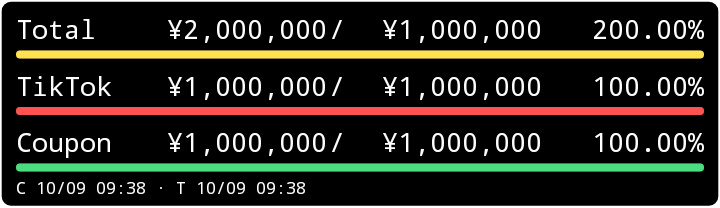
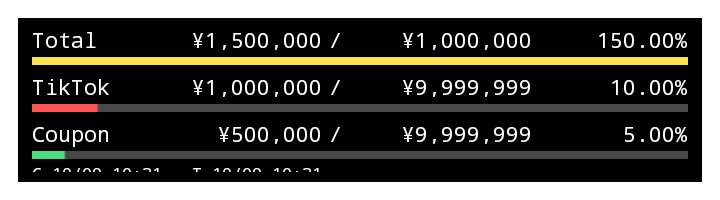
Publish verified v0.1.2 APK and high-density native widget screenshots

diff --git a/widget-download.html b/widget-download.html
@@ -3,10 +3,10 @@
 <style>
 :root{color-scheme:dark;--bg:#11120f;--text:#f6f5ee;--muted:#a8ab9c;--line:#424538;--yellow:#ffe24d}*{box-sizing:border-box}body{margin:0;background:var(--bg);color:var(--text);font:16px/1.65 system-ui,-apple-system,sans-serif}main{max-width:760px;margin:auto;padding:44px 24px 60px}.brand{font-size:12px;letter-spacing:.18em;color:var(--yellow)}h1{font-size:clamp(30px,6vw,48px);line-height:1.25;font-weight:600;margin:24px 0 14px}p{margin:14px 0}.lead{color:#c6c9bb;max-width:560px}.badges{display:flex;gap:10px;flex-wrap:wrap;margin:24px 0}.badges span{border:1px solid var(--line);padding:4px 10px;font-size:12px;border-radius:4px}.download{display:inline-block;text-decoration:none;color:#11120f;background:var(--yellow);padding:15px 24px;border-radius:7px;font-weight:700;margin-top:4px}.meta{font-size:12px;color:var(--muted)}.sample{margin:32px 0 8px;padding:13px 12px;background:#000;border:.8px solid white;border-radius:5px;font-family:ui-monospace,SFMono-Regular,monospace;max-width:620px}.row{margin:0 0 13px}.row:last-child{margin:0}.numbers{display:grid;grid-template-columns:16% 61% 23%;align-items:center;white-space:nowrap;font-size:clamp(9px,2.5vw,17px);font-variant-numeric:tabular-nums}.amount,.percent{text-align:right}.amount{padding-right:6px}.gauge{height:4px;margin-top:7px;background:#333;border-radius:3px}.gauge b{display:block;height:100%;border-radius:3px}.demo{font-size:11px;color:var(--muted);margin-top:7px}section{border-top:1px solid var(--line);padding-top:24px;margin-top:32px}h2{font-size:19px;line-height:1.4;font-weight:600}ol{padding-left:22px}li{margin:12px 0}.note{padding:18px 20px;background:#202217;border-left:3px solid var(--yellow);margin:26px 0}a{color:var(--yellow)}.hash{word-break:break-all;font:11px/1.6 ui-monospace,monospace;color:var(--muted)}table{width:100%;border-collapse:collapse;font-size:13px}td{border-bottom:1px solid var(--line);padding:10px 0}td:first-child{width:34%;color:var(--muted)}footer{font-size:12px;color:var(--muted);margin-top:38px}button{cursor:pointer}details{margin-top:20px;color:var(--muted);font-size:13px}
 </style></head><body><main>
-<div class="brand">THE FOOL QUEST / ANDROID</div><h1>収益を、<br>ホーム画面に。</h1><p class="lead">Total・TikTok・Couponを縦3行で表示。現在額・「／」・目標額を独立した固定幅で表示。足りない桁は空白の幅を保ち、ゲージを文字のすぐ下に置きます。</p>
-<div class="badges"><span>Android 8.0以上</span><span>初期サイズ 5 × 2</span><span>v0.1.1 / code 2</span><span>約34 KB</span></div>
-<a class="download" href="./android-widget/releases/fool-quest-widget-0.1.1.apk" download="fool-quest-widget-0.1.1.apk">APKをダウンロード</a><p class="meta">v0.1.0をインストール済みの場合は、アンインストールせずに上書き更新してください。保存済みの設定と収益表示データを保持します。</p>
-<img src="./widget-preview.png" alt="Android上の3行表示テスト。Total 2,000,000円、TikTokとCoupon各1,000,000円。" style="display:block;width:100%;height:auto;margin:32px 0 8px;max-width:620px"><p class="demo">Android 35で描画したテスト画像です。数値は表示検証用で、実収益ではありません。</p>
+<div class="brand">THE FOOL QUEST / ANDROID</div><h1>収益を、<br>ホーム画面に。</h1><p class="lead">Total・TikTok・Couponを縦3行で表示。標準テキスト部品で、現在額・「／」・目標額を独立した固定幅に表示。画像縮小による文字の縮みを防ぎ、足りない桁は空白の幅を保ちます。</p>
+<div class="badges"><span>Android 8.0以上</span><span>初期サイズ 5 × 2</span><span>v0.1.2 / code 3</span><span>約46 KB</span></div>
+<a class="download" href="./android-widget/releases/fool-quest-widget-0.1.2.apk" download="fool-quest-widget-0.1.2.apk">APKをダウンロード</a><p class="meta">旧版をインストール済みの場合は、アンインストールせずに上書き更新してください。保存済みの設定と収益表示データを保持します。</p>
+<img src="./widget-preview.png" alt="Android上の3行表示テスト。Total 1,500,000円、TikTok 1,000,000円、Coupon 500,000円。" style="display:block;width:100%;height:auto;margin:32px 0 8px;max-width:620px"><p class="demo">Android 35で描画したテスト画像です。数値は表示検証用で、実収益ではありません。</p>
 <div class="note"><strong>今回の連携範囲</strong><p>Couponは既存の中央台帳から自動取得します。TikTokと目標は、THE FOOL QUESTから一度連携してください。サイトで値を変更したら再連携が必要です。</p><p class="meta">現行サイトにはTikTok・目標の取得APIがないため、この2項目の完全自動同期は今後の課題です。</p></div>
 <section><h2>インストールして配置</h2><ol>
 <li>AndroidでAPKをダウンロードして開きます。必要な場合は、そのブラウザの「不明なアプリのインストール」を許可します。</li>
@@ -14,7 +14,7 @@
 <li>アプリ側で値を確認して「受け取る」を押します。背景・文字などを調整し、「設定を保存」を押します。</li>
 <li>「ホーム画面に追加」を押します。対応していない場合は、ホーム画面を長押しして「ウィジェット」から選びます。</li>
 </ol><p>連携画面が開いたら、サイトのTikTok金額・目標との一致を確認してください。未連携の項目は「—」になります。</p></section>
-<section><h2>毎日の操作</h2><table><tr><td>タップ</td><td>Coupon更新。3項目の表示を再描画。</td></tr><tr><td>自動更新</td><td>30分間隔。省電力中は遅れる場合があります。</td></tr><tr><td>長押し</td><td>サイズ変更。設定メニューの有無はホームアプリによります。</td></tr><tr><td>表示設定</td><td>黒／白、色、透過率、文字サイズ、四方向余白、行間、ゲージ。</td></tr><tr><td>通信失敗</td><td>前回の正常取得値を保持。</td></tr></table></section>
-<section><h2>確認状況</h2><p id="verification">v0.1.1の署名APKビルド、179件の数学・配置検証、7件の読み取り連携テストに合格。Android 35で91件の表示・固定桁位置・実API・タップ・サイズ変更検証、通信断3件、再起動2件に合格しました。v0.1.0は実機の3項目表示を確認しています。v0.1.1の実機への上書き更新とランチャーでの表示は未確認です。</p><p><a href="https://github.com/45kikurage-rgb/the-fool-quest/tree/main/android-widget">GitHubソース・検証記録</a></p>
-<details><summary>APKの照合情報</summary><p class="hash">SHA-256<br>c96a631d33498e604d77a9e9f3784f1e2f0df4a3e6245e66d771e5bf7f755908</p><p class="hash">署名証明書 SHA-256<br>18946d320bb61c58aa627abbf2b53ea521b273b218eaec57f7fbc662f375bdb1</p></details></section>
+<section><h2>毎日の操作</h2><table><tr><td>タップ</td><td>Coupon更新。3項目の表示を再描画。</td></tr><tr><td>自動更新</td><td>30分間隔。省電力中は遅れる場合があります。</td></tr><tr><td>長押し</td><td>サイズ変更。配置枠の空白が大きいときは下端のハンドルを上へ動かして縮めます。設定メニューの有無はホームアプリによります。</td></tr><tr><td>表示設定</td><td>黒／白、色、透過率、文字サイズ、四方向余白、行間、ゲージ。</td></tr><tr><td>通信失敗</td><td>前回の正常取得値を保持。</td></tr></table></section>
+<section><h2>確認状況</h2><p id="verification">v0.1.2の署名APKビルド、179件の数学・配置、7件の読み取り連携テストに合格。Android 35の高密度画面・実ウィジェット枠で842件の表示・実際の文字描画・実API・タップ・サイズ変更、通信断5件、再起動2件に合格しました。Nova実機で更新後の表示は未確認です。</p><p><a href="https://github.com/45kikurage-rgb/the-fool-quest/tree/main/android-widget">GitHubソース・検証記録</a></p>
+<details><summary>APKの照合情報</summary><p class="hash">SHA-256<br>b1870190ef76900ccce87b227c8bc27031f4965497d7ab8a236af7a7295f2a90</p><p class="hash">署名証明書 SHA-256<br>18946d320bb61c58aa627abbf2b53ea521b273b218eaec57f7fbc662f375bdb1</p></details></section>
 <footer>独立アプリ / 既存データへの書き込みなし / 新しい収益DBなし</footer></main></body></html>

diff --git a/android-widget/VERIFICATION.md b/android-widget/VERIFICATION.md
@@ -1,3 +1,21 @@
+# v0.1.2 実ランチャー向け表示修正 — 2026-10-09 JST
+
+- 文字・金額・達成率を標準TextViewへ変更。画像全体を縮小する経路とサイズ候補マップを廃止。
+- 固定5欄（ラベル16%、現在額29%、スラッシュ3%、目標額29%、達成率23%）。各金額は7桁分を確保し、少額でも右寄せ、余り幅は空白のまま。
+- 設定プレビューもホームと同じRemoteViews。外周8dpでランチャーの角による欠けを防止。
+- 初期5×2は維持。最小リサイズ高さ65dp。配置セル数そのものはホームアプリが管理するため、必要なら手動で縦方向を縮める。
+- APK v0.1.2 / code 3 / 46,590 bytes、元の署名証明書を維持。
+- Android 35、1080×1920 / density 480の実AppWidgetHostで表示・タップ・リサイズを検証。160/320dpiの表示コンテキスト、280〜400dp幅、100/196dp高で各文字幅・共通列・実際の文字描画を検査。
+- 表示・実API・ネイティブ文字の842チェック、通信断5チェック、再起動2チェックが合格。
+- 最終実行：https://github.com/45kikurage-rgb/the-fool-quest/actions/runs/37870012031
+- 最終検証ソース：1b81cbce5adb395eaa0df437faa6374252a90886
+- CIは一時署名の同一ソース。配布APKは固定秘密署名で別途ビルドしv2/v3署名を確認。
+- 中間の高密度実行では通信を止めるADB命令が一時的な接続断で失敗。最終実行は接続待ちとネットワーク断・前回更新終了の前提確認を追加して合格。
+- 添付実機画像でv0.1.1の表示縮小・角での欠けを確認。v0.1.2をNova実機に更新した後の受入は未確認。
+- 収益API、保存済み表示設定とキャッシュ、更新処理、THE FOOL QUEST本体は変更なし。
+
+---
+
 # v0.1.1 表示修正 — 2026-10-09 JST
 
 - 現在額・「／」・目標額を独立した固定幅へ変更。各金額に7桁、カンマ2個、円記号の幅を確保。小さい金額は右寄せし、左側の余った桁幅は空白のまま保持。

diff --git a/android-widget/README.md b/android-widget/README.md
@@ -1,6 +1,6 @@
 # THE FOOL QUEST Android収益ウィジェット
 
-独立APK `com.aruno.foolquest.widget`、v0.1.1 / versionCode 2。Android 8.0以上。既存のTHE FOOL QUEST、ARUNOMATIC、Vault、Ledgerへの書き込みを行いません。
+独立APK `com.aruno.foolquest.widget`、v0.1.2 / versionCode 3。Android 8.0以上。既存のTHE FOOL QUEST、ARUNOMATIC、Vault、Ledgerへの書き込みを行いません。
 
 ## 現在のデータ責任
 
@@ -43,3 +43,11 @@ bash scripts/build.sh
 文字のすぐ下にゲージを置き、文字サイズと行間設定から行の高さを決定します。ホーム画面の空き高さに合わせて行を引き伸ばしません。Android 12以上ではランチャーから提供された実サイズごとのRemoteViewsを使用し、未対応ランチャーと旧Androidでは縦横のサイズを切り替えます。
 
 前のAPKと同じ署名、versionCode 2のため、アンインストールせずに更新できます。表示キャッシュと設定キーは維持します。
+
+## v0.1.2 実ランチャーの表示修正
+
+ホーム画面の文字・金額・達成率はAndroid標準TextViewを直接表示し、画像全体の縮小を廃止します。5つの固定欄（ステータス・現在額・スラッシュ・目標額・達成率）を3行すべて同じ割合で配分。設定プレビューも同じRemoteViewsを適用します。
+
+ランチャーのOPTION_APPWIDGET_SIZESによるビットマップ候補切り替えは使用しません。画面幅と最小幅から安全な共通文字サイズを計算し、実際の欄幅は標準LinearLayoutが決めます。外周8dpで角による欠けを防止。初期5×2を維持し、最小リサイズ高さを65dpに変更して縦方向を縮められる範囲を増やします。ホームアプリが確保する配置セル数そのものはアプリから変更できません。
+
+背景・細枠は標準View、ゲージだけ軽量ビットマップ。versionCode 3、同じ署名。データ連携・保存済み設定・定期更新の処理は変更なし。
